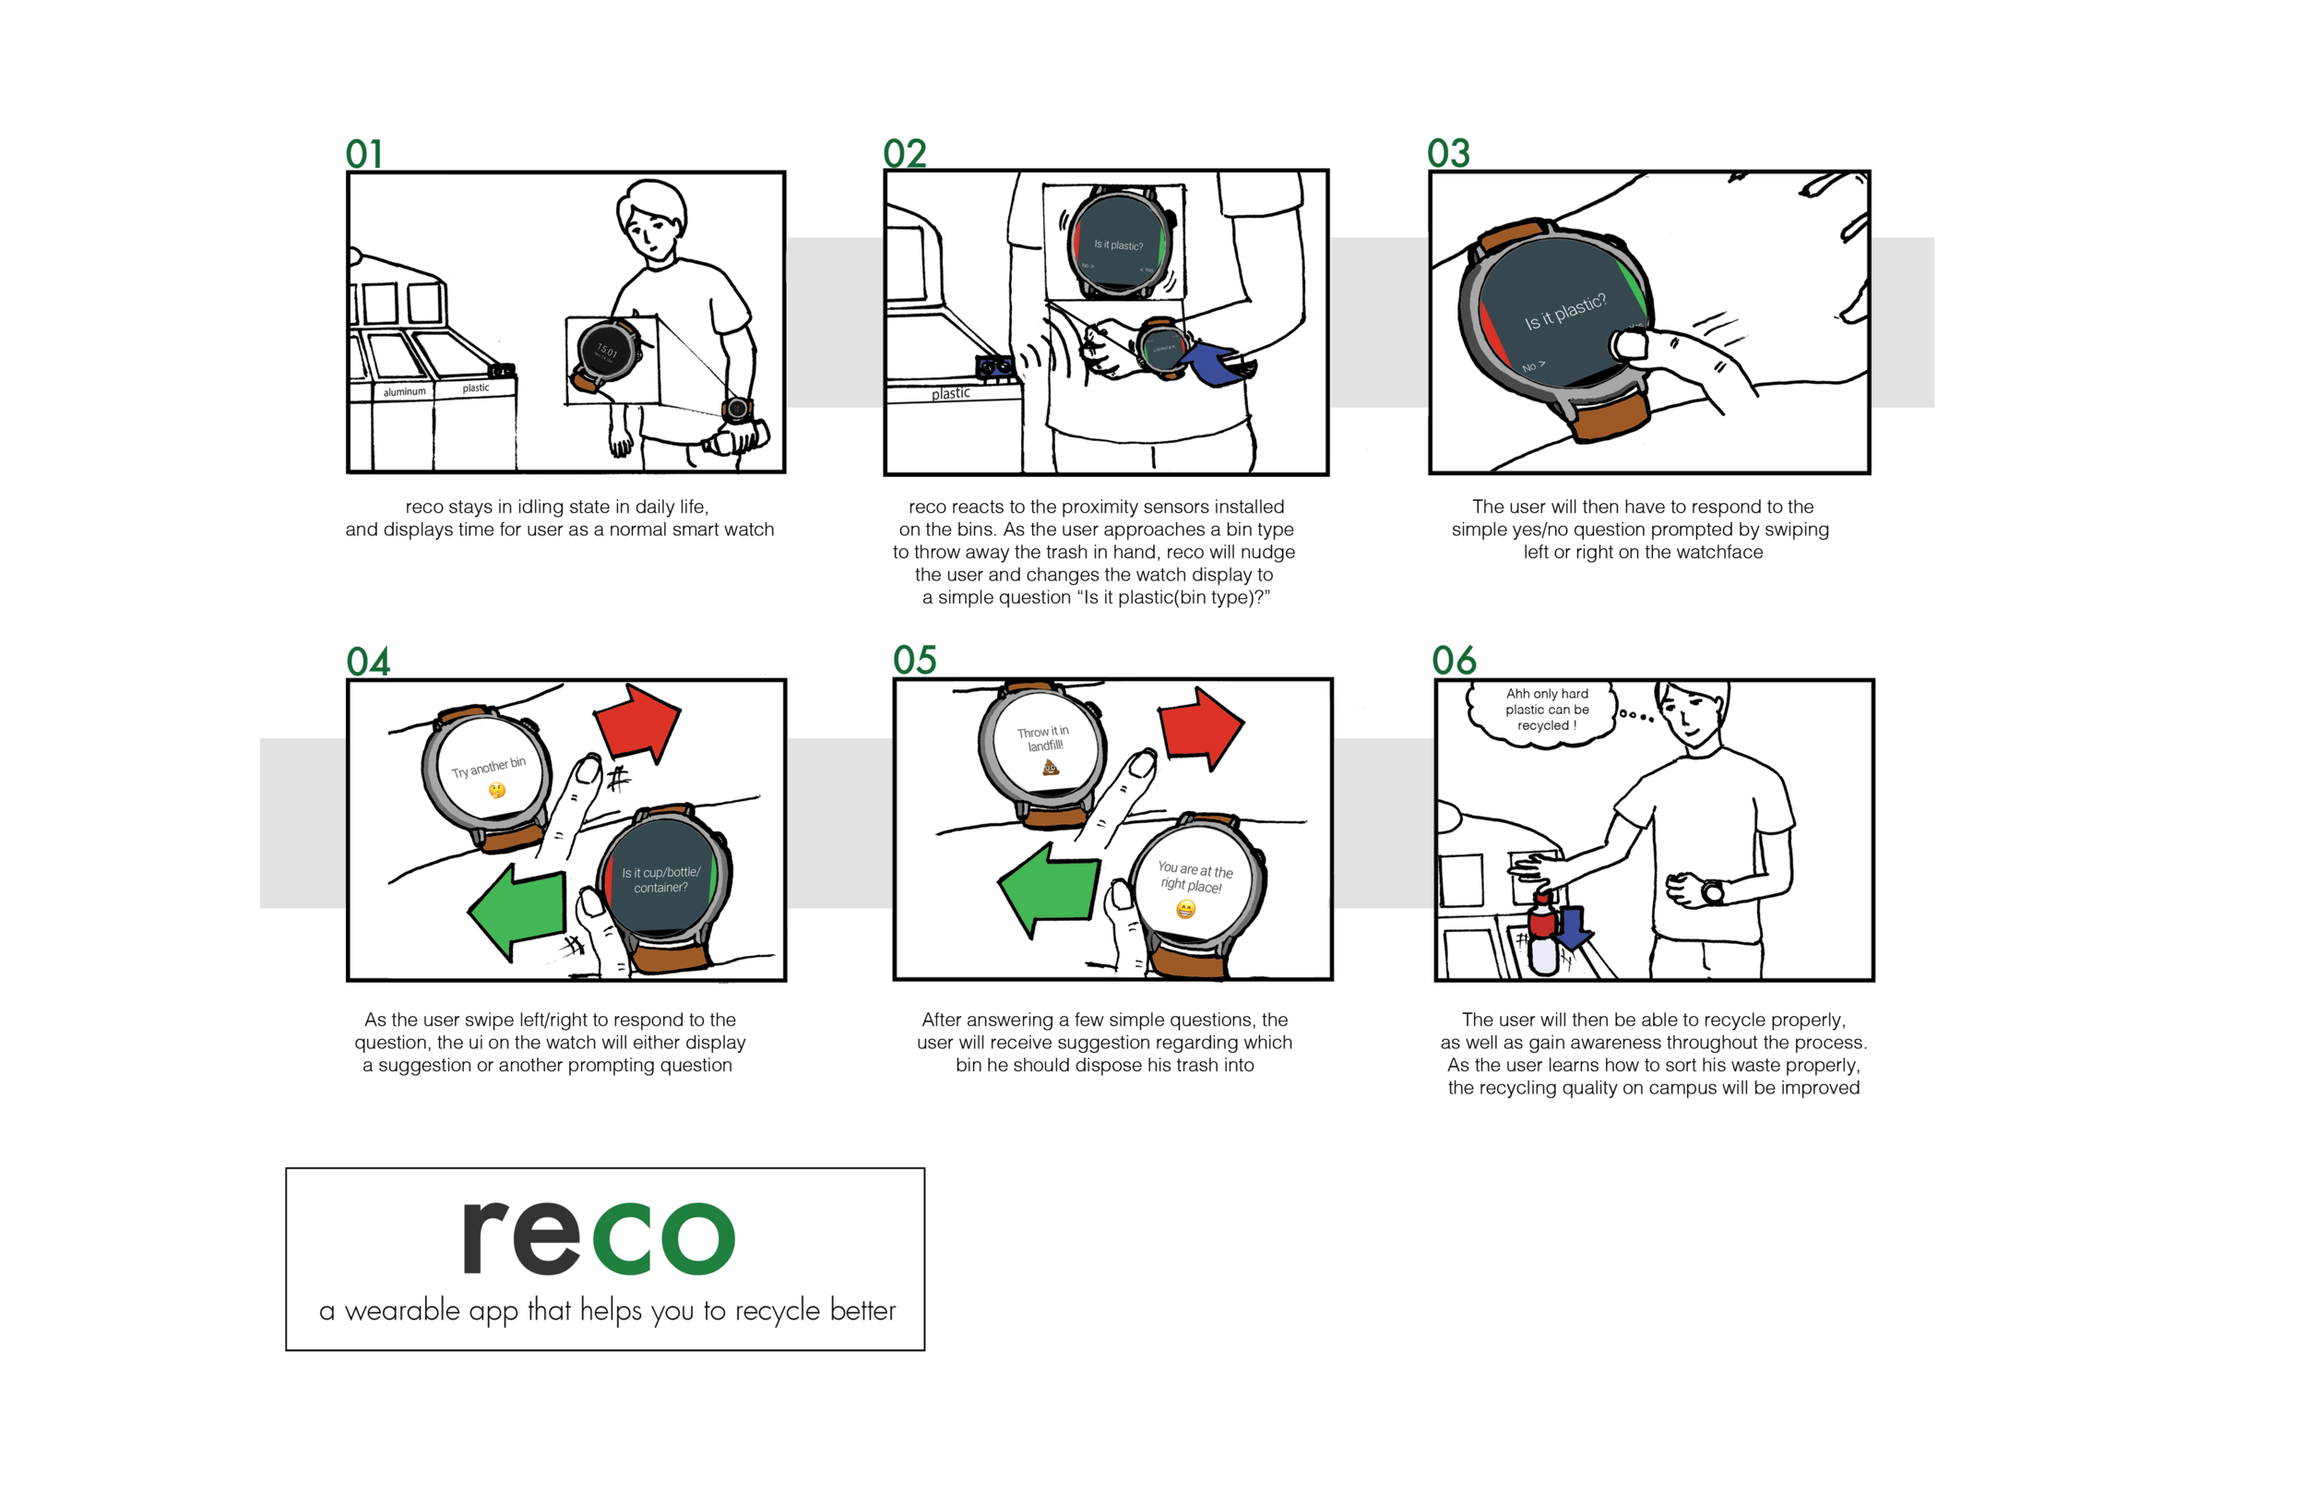
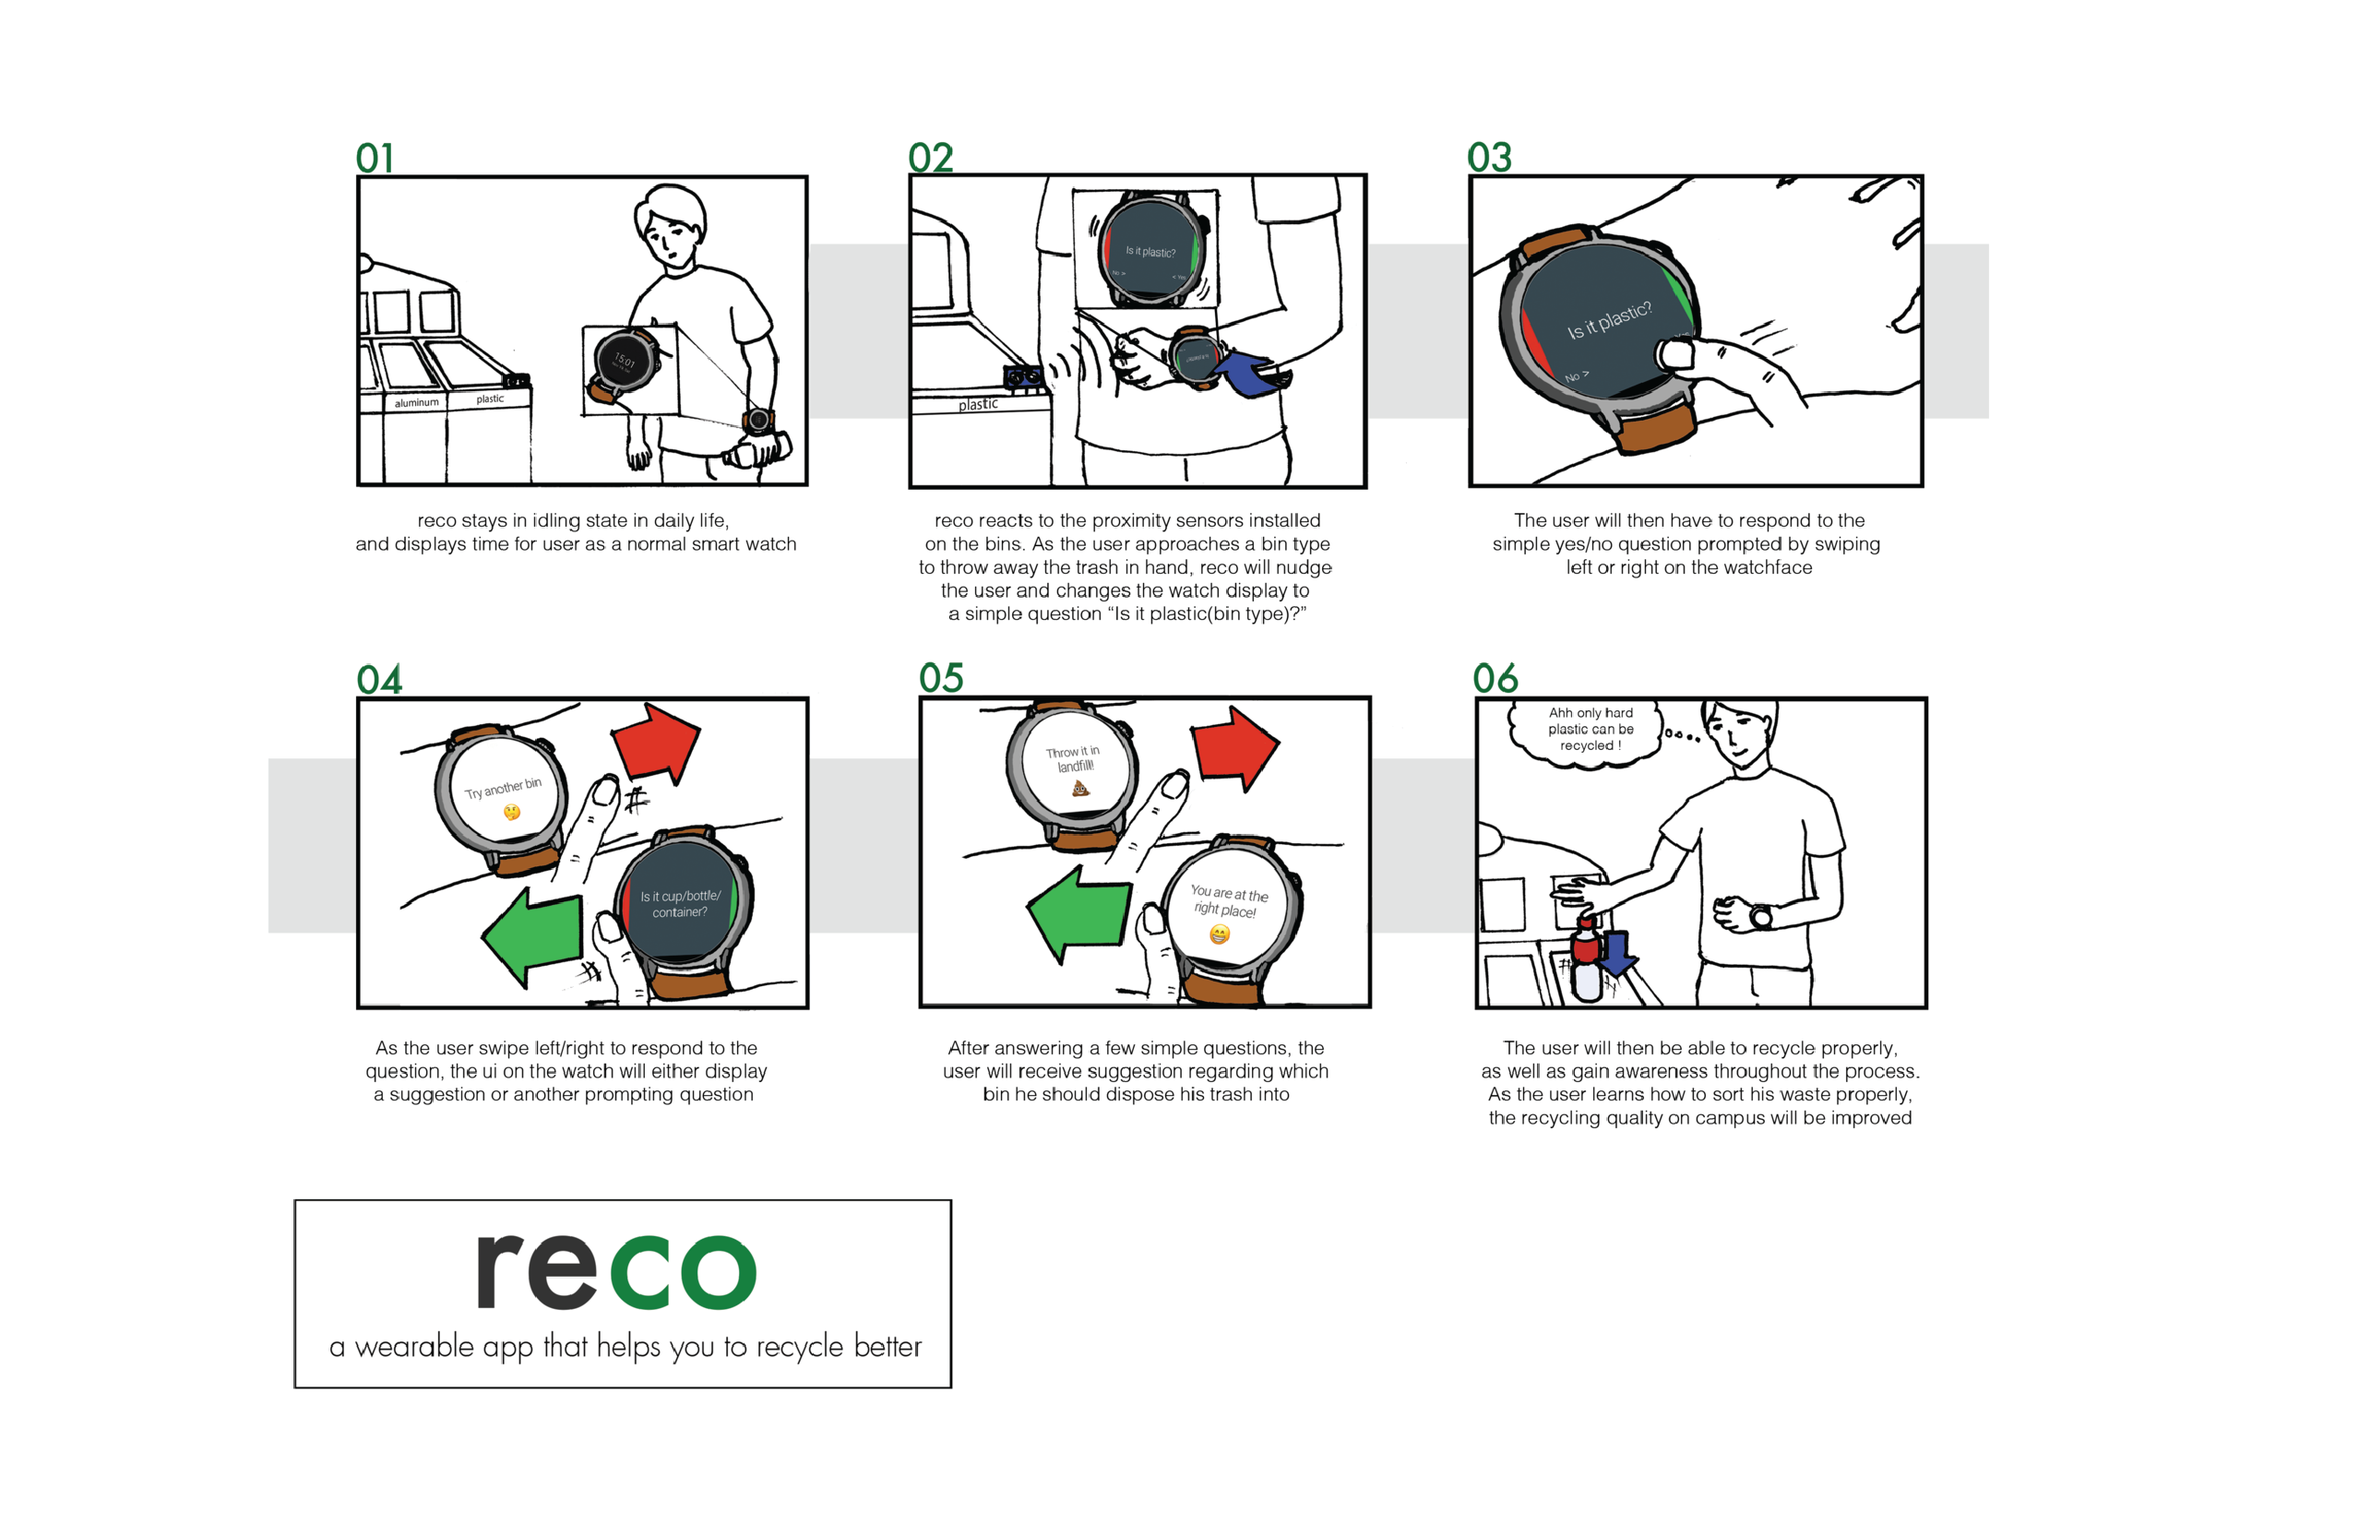
New

diff --git a/reco.html b/reco.html
@@ -183,7 +183,7 @@
 
         <h5><b>B. StoryBoard and Task Flows</b></h5></br></br>
         <p>We took an expert feedback about the frequently asked questions and made the following task flow.</br></br>
-        <img src="img/projects/reco/storyboard.png"/></br></br>
+        <img src="img/projects/reco/storyboard-01.png"/></br></br>
 
         <img src="img/projects/reco/task.png"/></br></br>
         
